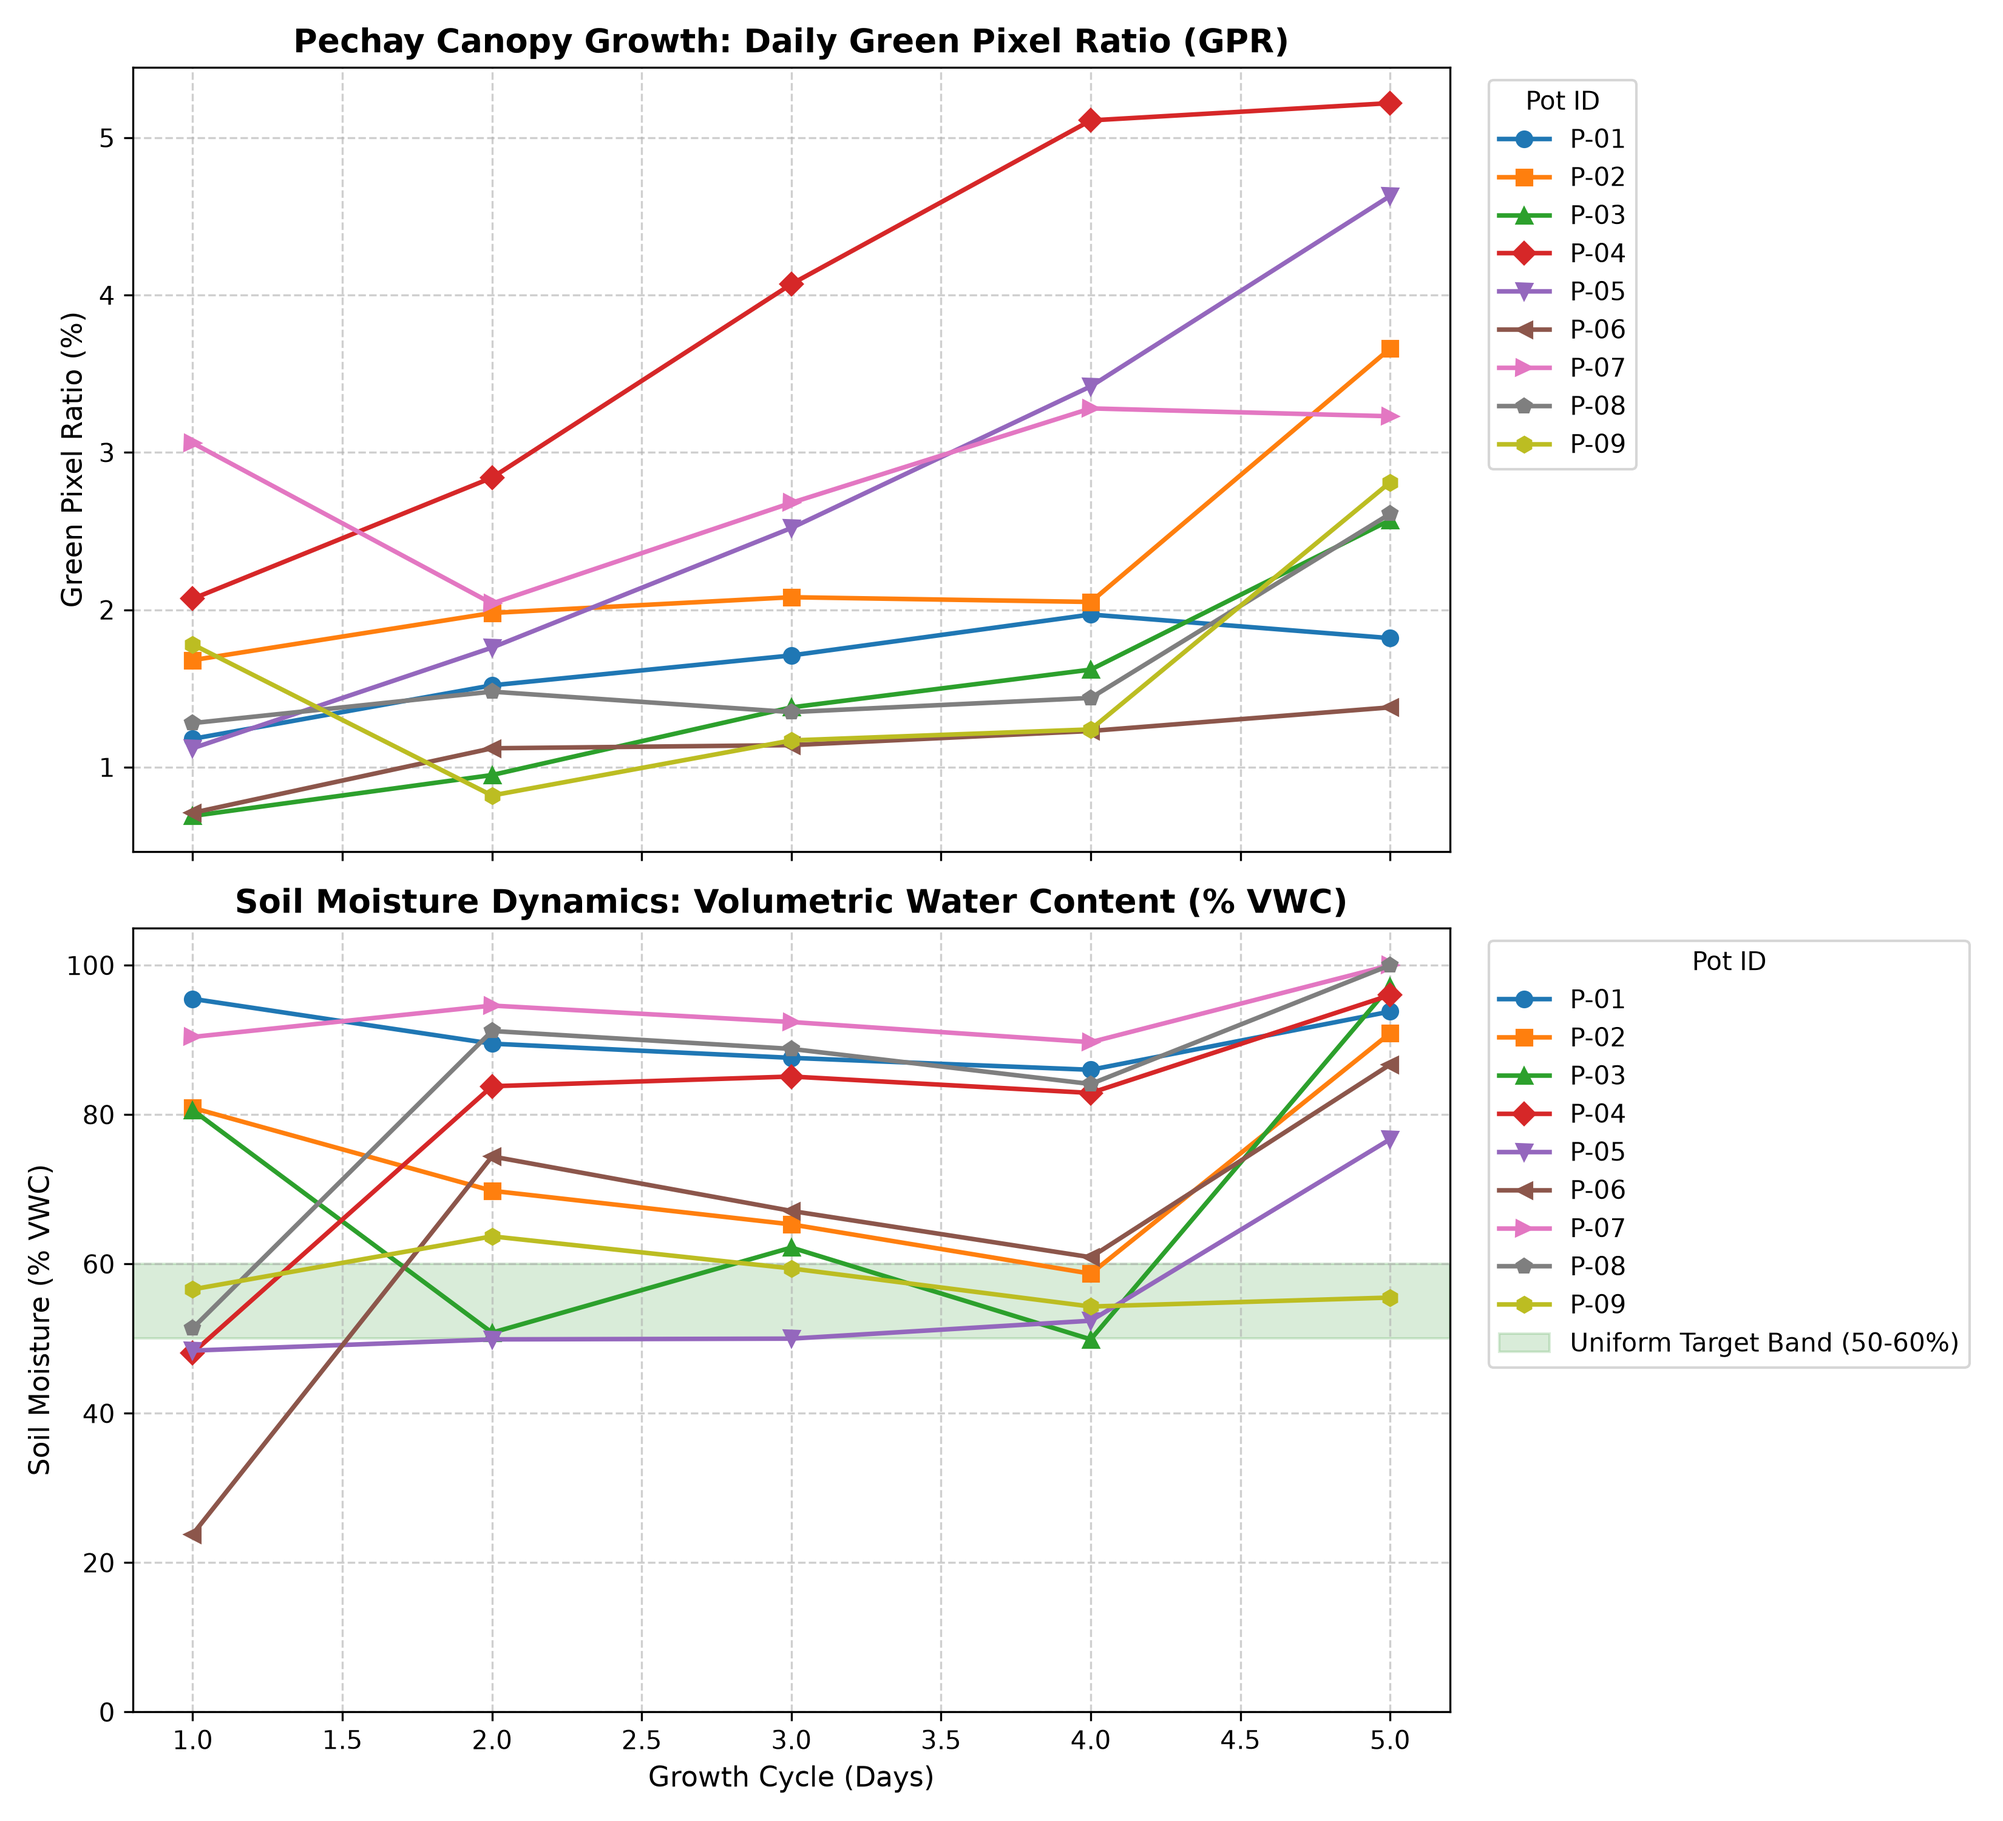
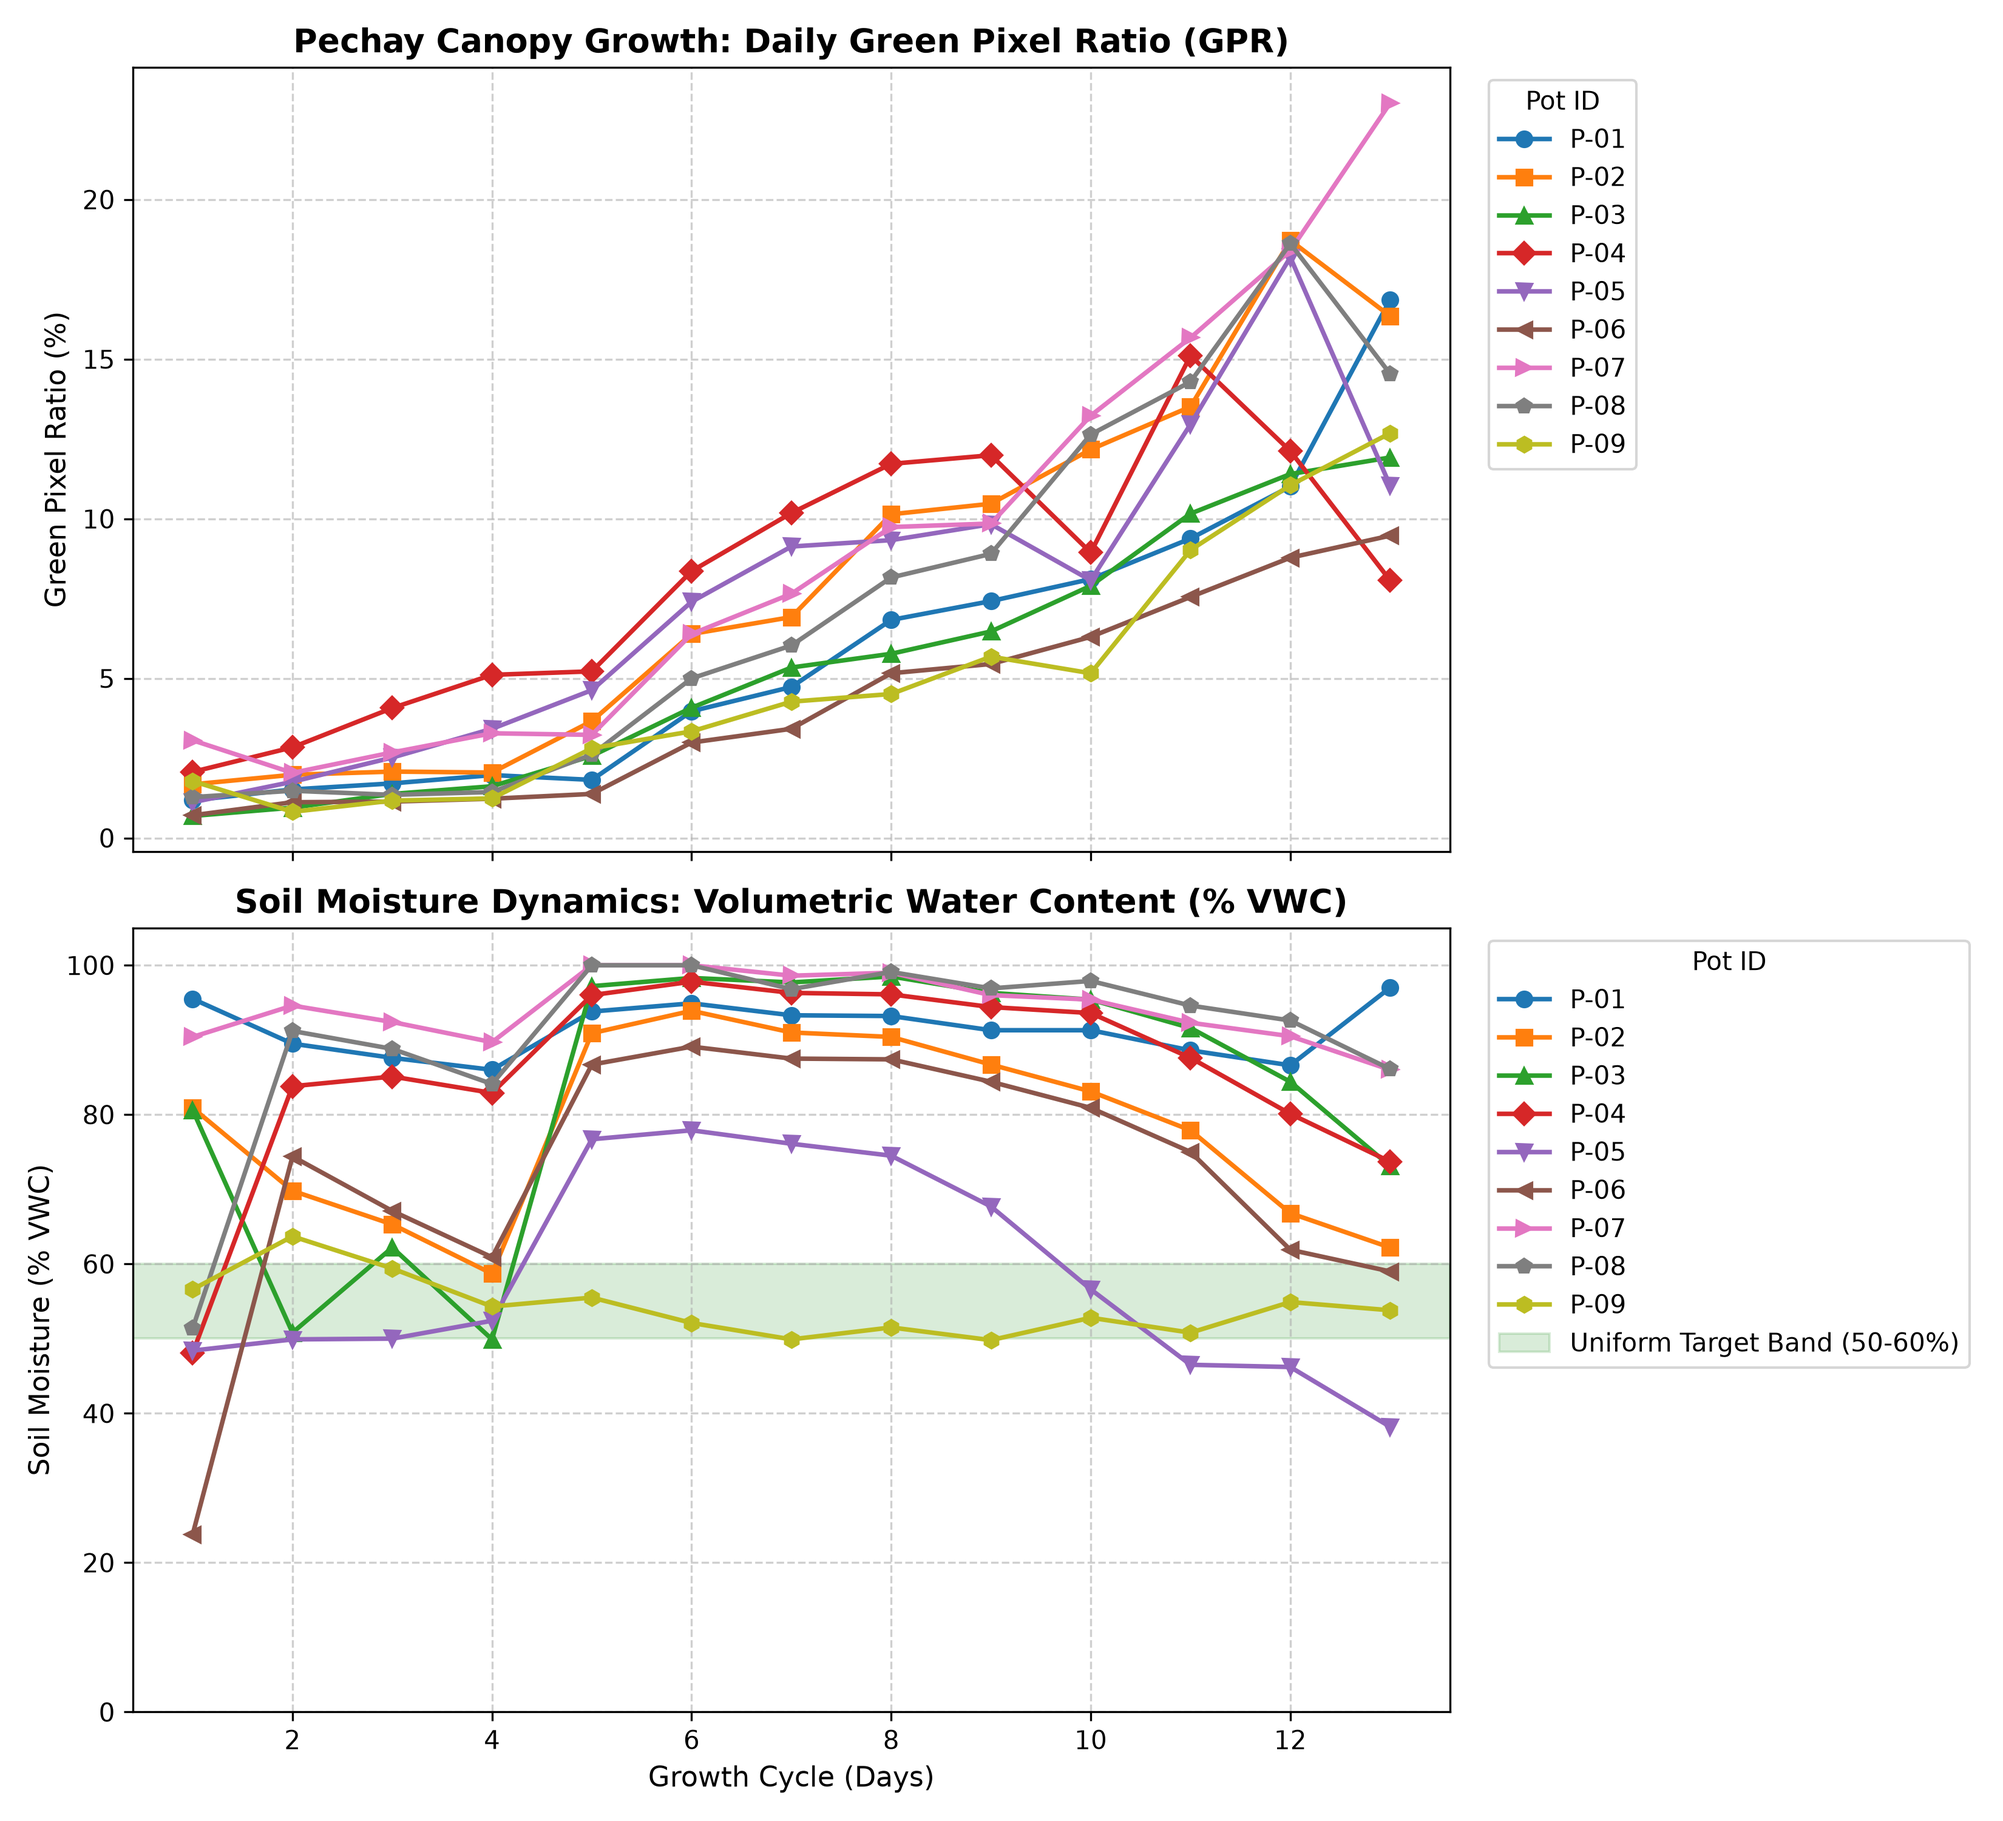
exposure time

diff --git a/Dual_Archi/Dual_Archi_Firmware/src/main.cpp b/Dual_Archi/Dual_Archi_Firmware/src/main.cpp
@@ -95,8 +95,8 @@ Adafruit_BMP3XX bmp;
 bool  bmpAvailable      = false;
 float currentTemp       = 0.0f;
 float currentPressure   = 0.0f;
-const float FAN_ON_TEMP = 35.0f;
-const float FAN_OFF_TEMP= 32.0f;
+const float FAN_ON_TEMP  = 35.0f;
+const float FAN_OFF_TEMP = 32.0f;
 
 /* ---------------------------------------------------------------------------
  * TIMING CONSTANTS & LIGHT TRACKING
@@ -121,7 +121,6 @@ unsigned long lastSampleMs = 0;
 unsigned long lastReportMs = 0;
 unsigned long lastBmpMs    = 0;
 
-// Non-blocking light flash timeout tracker
 unsigned long lightOffAtMs = 0;
 bool          lightActive  = false;
 
@@ -303,9 +302,45 @@ void reportThermal() {
 
 void handleCommand(String cmd) {
   cmd.trim();
+  // Strip out any non-printable / garbage UART line bytes (e.g. 0xFF / framing noise)
+  while (cmd.length() > 0 && ((uint8_t)cmd[0] < 32 || (uint8_t)cmd[0] > 126)) {
+    cmd.remove(0, 1);
+  }
+  cmd.trim();
   if (cmd.length() == 0) return;
 
-  if (cmd.startsWith("TIME,")) {
+  if (cmd.startsWith("MANUAL_WATER,")) {
+    int firstComma = cmd.indexOf(',');
+    int secondComma = cmd.indexOf(',', firstComma + 1);
+    
+    if (secondComma != -1) {
+      int idx = cmd.substring(firstComma + 1, secondComma).toInt();
+      unsigned long duration = cmd.substring(secondComma + 1).toInt();
+      
+      if (idx >= 0 && idx < NUM_PODS && duration > 0 && duration <= 15000) {
+        irrigating = true;
+        relayOn(solenoidPins[idx]);
+        delay(250);
+        relayOn(PUMP_PIN);
+        
+        unsigned long t0 = millis();
+        while (millis() - t0 < duration) {
+          drainPiLink();
+          delay(20);
+        }
+        
+        relayOff(PUMP_PIN);
+        delay(250);
+        relayOff(solenoidPins[idx]);
+        irrigating = false;
+        
+        emit("ACK,MANUAL_WATER,P-0" + String(idx + 1) + "," + String(duration) + "ms");
+      } else {
+        reportError("INVALID_PARAMS", cmd);
+      }
+    }
+  }
+  else if (cmd.startsWith("TIME,")) {
     unsigned long e = strtoul(cmd.substring(5).c_str(), NULL, 10);
     if (e > 1700000000UL) {
       epochAtBoot = e - (millis() / 1000UL);
@@ -366,7 +401,7 @@ void handleCommand(String cmd) {
   }
   else if (cmd.startsWith("LIGHT_PULSE,")) {
     unsigned long dur = cmd.substring(12).toInt();
-    if (dur > 0 && dur <= 300000UL) { // Cap at 5 mins
+    if (dur > 0 && dur <= 300000UL) {
       relayOn(LIGHT_PIN);
       lightActive = true;
       lightOffAtMs = millis() + dur;
@@ -397,17 +432,17 @@ void handleCommand(String cmd) {
       delay(2000);
       relayOff(solenoidPins[idx]);
       emit("ACK,TEST_RELAY,P-0" + String(idx + 1));
-    } else if (idx == 9) { // 9 = Pump
+    } else if (idx == 9) {
       relayOn(PUMP_PIN);
       delay(2000);
       relayOff(PUMP_PIN);
       emit("ACK,TEST_RELAY,PUMP");
-    } else if (idx == 10) { // 10 = Pi Fans
+    } else if (idx == 10) {
       relayOn(FAN_RELAY_PIN);
       delay(2000);
       relayOff(FAN_RELAY_PIN);
       emit("ACK,TEST_RELAY,FANS");
-    } else if (idx == 11) { // 11 = Light Relay
+    } else if (idx == 11) {
       relayOn(LIGHT_PIN);
       delay(2000);
       relayOff(LIGHT_PIN);
@@ -451,16 +486,13 @@ void pollPiLink() {
 }
 
 void setup() {
-  // Bind physical UART0 strictly to GPIO 44 (RX) and GPIO 43 (TX)
   Serial.begin(115200, SERIAL_8N1, 44, 43);
   delay(200);
 
-  // Status LED & Programmable Button
   pinMode(LED_INDICATOR_PIN, OUTPUT);
   digitalWrite(LED_INDICATOR_PIN, LOW);
   pinMode(PROG_BUTTON_PIN, INPUT_PULLUP);
 
-  // Initialize Relays OFF (Active-LOW safety)
   for (int i = 0; i < NUM_PODS; i++) {
     digitalWrite(solenoidPins[i], RELAY_ACTIVE_LOW ? HIGH : LOW);
     pinMode(solenoidPins[i], OUTPUT);
@@ -479,18 +511,15 @@ void setup() {
   pinMode(LIGHT_PIN, OUTPUT);
   relayOff(LIGHT_PIN);
 
-  // MUX Select Lines
   for (int i = 0; i < 4; i++) {
     pinMode(MUX_SEL[i], OUTPUT);
     digitalWrite(MUX_SEL[i], LOW);
   }
 
-  // ADC Configuration (GPIO 1)
   analogReadResolution(12);
   pinMode(MUX_SIG, INPUT);
   analogSetPinAttenuation(MUX_SIG, ADC_11db);
 
-  // BMP388 (I2C)
   Wire.begin(BMP_SDA, BMP_SCL);
   if (bmp.begin_I2C(0x76, &Wire)) {
     bmpAvailable = true;
@@ -518,20 +547,17 @@ void loop() {
 
   unsigned long now = millis();
 
-  // Fail-safe auto-shutoff for light pulse
   if (lightActive && lightOffAtMs > 0 && now >= lightOffAtMs) {
     relayOff(LIGHT_PIN);
     lightActive = false;
     lightOffAtMs = 0;
   }
 
-  // 1. Enclosure Temperature Regulation (every 5 seconds)
   if (now - lastBmpMs >= BMP_POLL_INTERVAL_MS || lastBmpMs == 0) {
     lastBmpMs = now;
     checkEnclosureThermal();
   }
 
-  // 2. Closed-Loop Irrigation Execution (every 15 minutes)
   if (now - lastSampleMs >= SAMPLE_INTERVAL_MS || lastSampleMs == 0) {
     lastSampleMs = now;
 
@@ -560,7 +586,6 @@ void loop() {
     }
   }
 
-  // 3. Periodic SM Telemetry Report to Pi (every 30 minutes)
   if (now - lastReportMs >= SM_REPORT_INTERVAL_MS) {
     lastReportMs = now;
     reportSM();

diff --git a/Dual_Archi/pi_link.py b/Dual_Archi/pi_link.py
@@ -97,6 +97,7 @@ ERR_CSV = os.path.join(DATA_DIR, "error_log.csv")
 PID_FILE = os.path.join(DATA_DIR, "pi_link.pid")
 REQ_FILE = os.path.join(DATA_DIR, "request_sm")
 SNAP_FILE = os.path.join(DATA_DIR, "sm_snapshot.json")
+LIGHT_FILE = os.path.join(DATA_DIR, "request_light")
 
 SM_HEADER = ["wall_time", "esp_epoch"] + [f"P-0{i}" for i in range(1, 10)]
 EVT_HEADER = ["wall_time", "esp_epoch", "pot_id", "group", "vwc_before",
@@ -206,7 +207,6 @@ def get_sm_snapshot(timeout=25):
         return _snapshot_via_daemon(timeout)
     return _snapshot_direct(timeout)
 
-
 def _snapshot_via_daemon(timeout):
     os.makedirs(DATA_DIR, exist_ok=True)
     before = os.path.getmtime(SNAP_FILE) if os.path.exists(SNAP_FILE) else 0
@@ -271,6 +271,42 @@ def _snapshot_direct(timeout):
         print(f"[pi_link] direct snapshot failed: {exc}", file=sys.stderr)
     return None
 
+def set_light_state(on: bool, timeout=5) -> bool:
+    """Turn Relay 12 (Flash / Grow Light) ON or OFF.
+    
+    Routes through the daemon via a request file if running,
+    otherwise sends the UART command directly.
+    """
+    if daemon_pid():
+        return _set_light_via_daemon(on, timeout)
+    return _set_light_direct(on)
+
+
+def _set_light_via_daemon(on: bool, timeout=5) -> bool:
+    os.makedirs(DATA_DIR, exist_ok=True)
+    val = "ON" if on else "OFF"
+    with open(LIGHT_FILE, "w") as f:
+        f.write(val)
+
+    # Wait for the daemon to process and delete the file
+    deadline = time.time() + timeout
+    while time.time() < deadline:
+        if not os.path.exists(LIGHT_FILE):
+            return True
+        time.sleep(0.05)
+    return False
+
+
+def _set_light_direct(on: bool) -> bool:
+    cmd = b"LIGHT_ON\n" if on else b"LIGHT_OFF\n"
+    try:
+        with open_link() as ser:
+            ser.write(cmd)
+            resp = ser.readline().decode(errors="replace").strip()
+            return "ACK,LIGHT" in resp
+    except Exception as exc:
+        print(f"[pi_link] direct light toggle failed: {exc}", file=sys.stderr)
+        return False
 
 def simple_command(cmd, expect, timeout=8):
     """One-shot command. Refuses to run while the daemon owns the port."""
@@ -320,6 +356,17 @@ def daemon():
                             ser.write(b"GET_SM\n")
                             pending_req = True
 
+                        # A light toggle request from capture_gpr.py
+                        if os.path.exists(LIGHT_FILE):
+                            try:
+                                with open(LIGHT_FILE, "r") as f:
+                                    target_state = f.read().strip()
+                                cmd = b"LIGHT_ON\n" if target_state == "ON" else b"LIGHT_OFF\n"
+                                ser.write(cmd)
+                                os.remove(LIGHT_FILE)
+                            except Exception:
+                                pass
+
                         raw = ser.readline().decode(errors="replace").strip()
                         if raw:
                             print(f"  < {raw}")
@@ -361,5 +408,9 @@ if __name__ == "__main__":
         sys.exit(0 if simple_command("BANDS_ON", "ACK,BANDS_ON") else 1)
     elif "--clear-faults" in sys.argv:
         sys.exit(0 if simple_command("CLEAR_FAULTS", "ACK,CLEAR_FAULTS") else 1)
+    elif "--light-on" in sys.argv:
+        sys.exit(0 if set_light_state(True) else 1)
+    elif "--light-off" in sys.argv:
+        sys.exit(0 if set_light_state(False) else 1)
     else:
         daemon()

diff --git a/Dual_Archi/capture_gpr.py b/Dual_Archi/capture_gpr.py
@@ -233,8 +233,8 @@ def capture_frame():
         "AfMode": controls.AfModeEnum.Manual,
         "LensPosition": 0.42,        # MEASURE ONCE on the rig, then never change
         "AeEnable": False,
-        "ExposureTime": 700,       # MEASURE under the final LED array
-        "AnalogueGain": 1.0,
+        "ExposureTime": 3000,       # MEASURE under the final LED array
+        "AnalogueGain": 4.0,
         "AwbEnable": False,
         "ColourGains": (1.8, 1.6),  # MEASURE ONCE
     })
